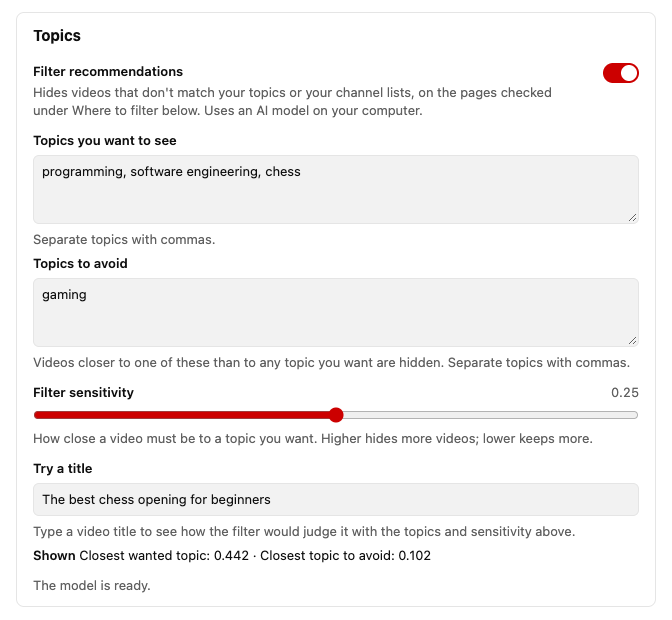
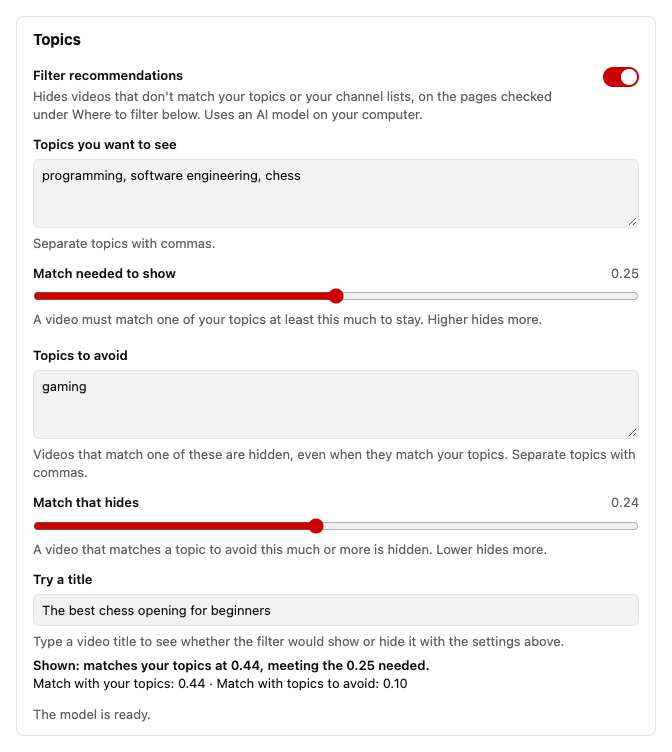
docs: retake the options page screenshot
The Topics section now shows each slider under the list it governs,
and Try a title shows a verdict that names its rule and line.

diff --git a/README.md b/README.md
@@ -124,7 +124,7 @@ and the model's status is hidden.
   set**; **Change shortcuts** opens `chrome://extensions/shortcuts`, where you can pick
   your own.
 
-![The Topics section of the options page, with the topics programming, software engineering and chess, the topic to avoid gaming, the filter sensitivity at 0.25, the title The best chess opening for beginners tried and shown, and the status The model is ready](docs/options-page.png)
+![The Topics section of the options page, with the topics programming, software engineering and chess and Match needed to show at 0.25 under them, the topic to avoid gaming and Match that hides at 0.24 under it, the title The best chess opening for beginners tried with the verdict Shown: matches your topics at 0.44, meeting the 0.25 needed, and the status The model is ready](docs/options-page.png)
 
 Settings synced from another computer are kept within the limits the options page allows.
 
